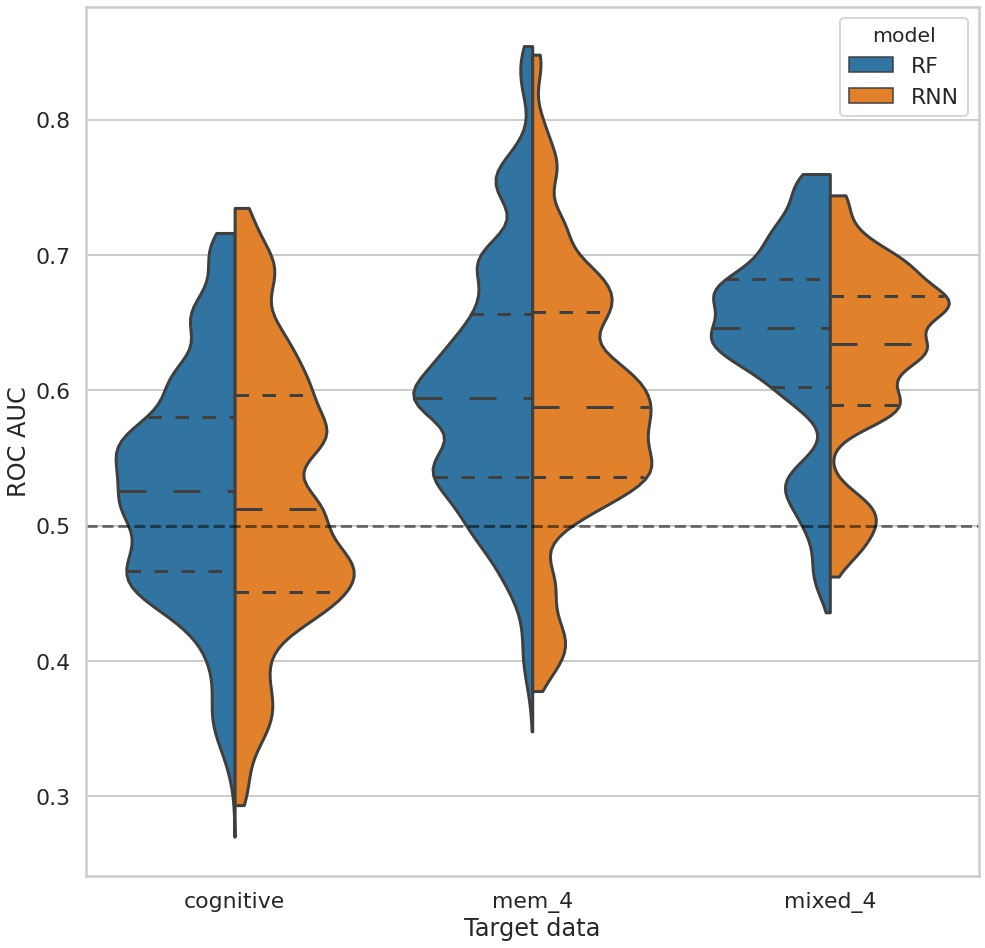
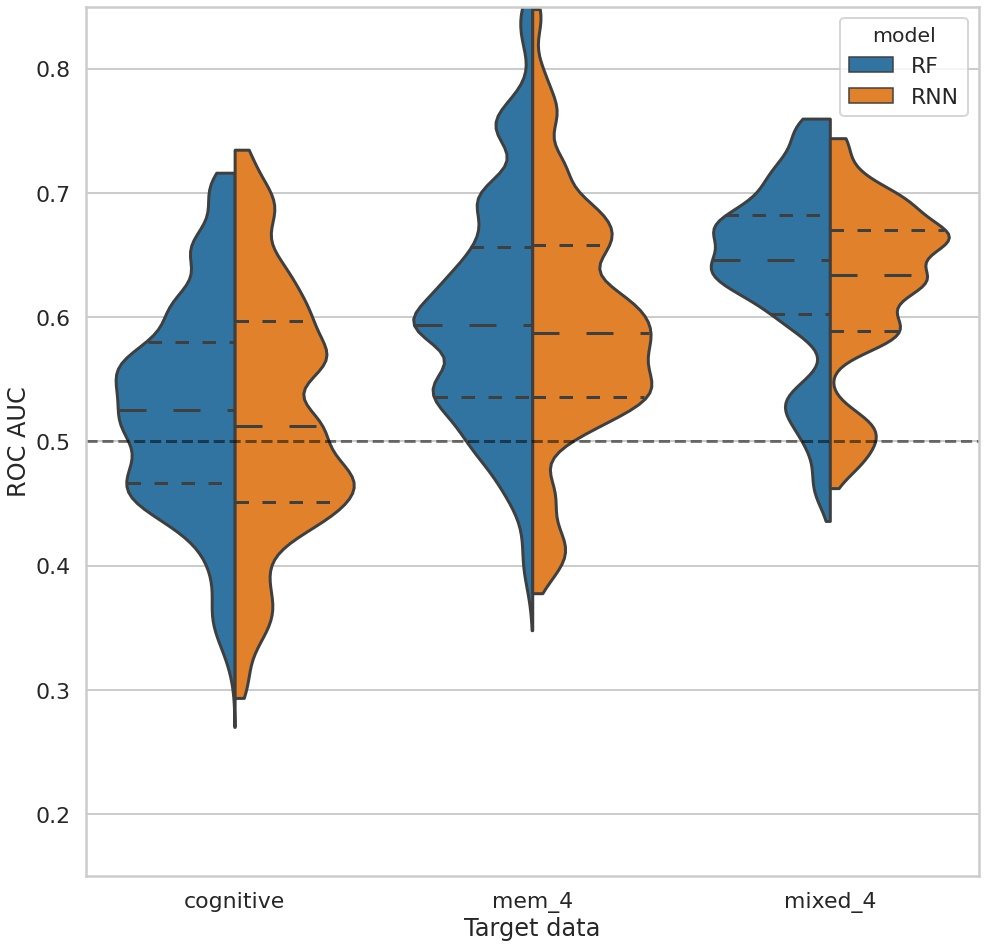
update

diff --git a/scripts/plot_CD.py b/scripts/plot_CD.py
@@ -19,7 +19,7 @@ import seaborn as sns
 sns.set_style('whitegrid')
 sns.set_context('poster')
 
-experiment = 'confidence' # confidence or adequacy
+experiment = 'adequacy' # confidence or adequacy
 working_dir = f'../results/{experiment}/R*CD/'
 figure_dir = f'../figures/{experiment}/CD'
 if not os.path.exists(figure_dir):
@@ -53,7 +53,6 @@ xargs = dict(hue = 'model',
              cut = 0,
              scale = 'width',)
 
-#ax.set(xlim = (0.15,0.85))
 
 fig,ax = plt.subplots(figsize = (16,16))
 ax = sns.violinplot(x = 'source',
@@ -62,7 +61,7 @@ ax = sns.violinplot(x = 'source',
                     ax = ax,
                     **xargs,
                     )
-#ax.set(ylim = (0.15,0.85))
+ax.set(ylim = (0.15,0.85))
 ax.axhline(0.5,linestyle = '--',color = 'black',alpha = 0.5,)
 ax.set(xlabel = 'Target data',ylabel = 'ROC AUC',)
 fig.savefig(os.path.join(figure_dir,'cross domain decoding scores.jpeg',

diff --git a/scripts/plot LOO.py b/scripts/plot LOO.py
@@ -18,7 +18,7 @@ from matplotlib import pyplot as plt
 sns.set_style('whitegrid')
 sns.set_context('poster')
 
-experiment = 'confidence' # confidence or adequacy
+experiment = 'adequacy' # confidence or adequacy
 working_dir = f'../results/{experiment}/LOO/'
 figure_dir = f'../figures/{experiment}/LOO_compare_RNN_RF/'
 if not os.path.exists(figure_dir):
@@ -59,7 +59,7 @@ ax = sns.violinplot(y = 'experiment',
                     data = df_plot,
                     ax = ax,
                     **xargs)
-#ax.set(xlim = (0.15,0.85))
+ax.set(xlim = (0.3,1.))
 ax.axvline(0.5,linestyle = '--',color = 'black',alpha = 0.5,)
 fig.savefig(os.path.join(figure_dir,
                          'RNN vs RF LOO.jpeg'),
